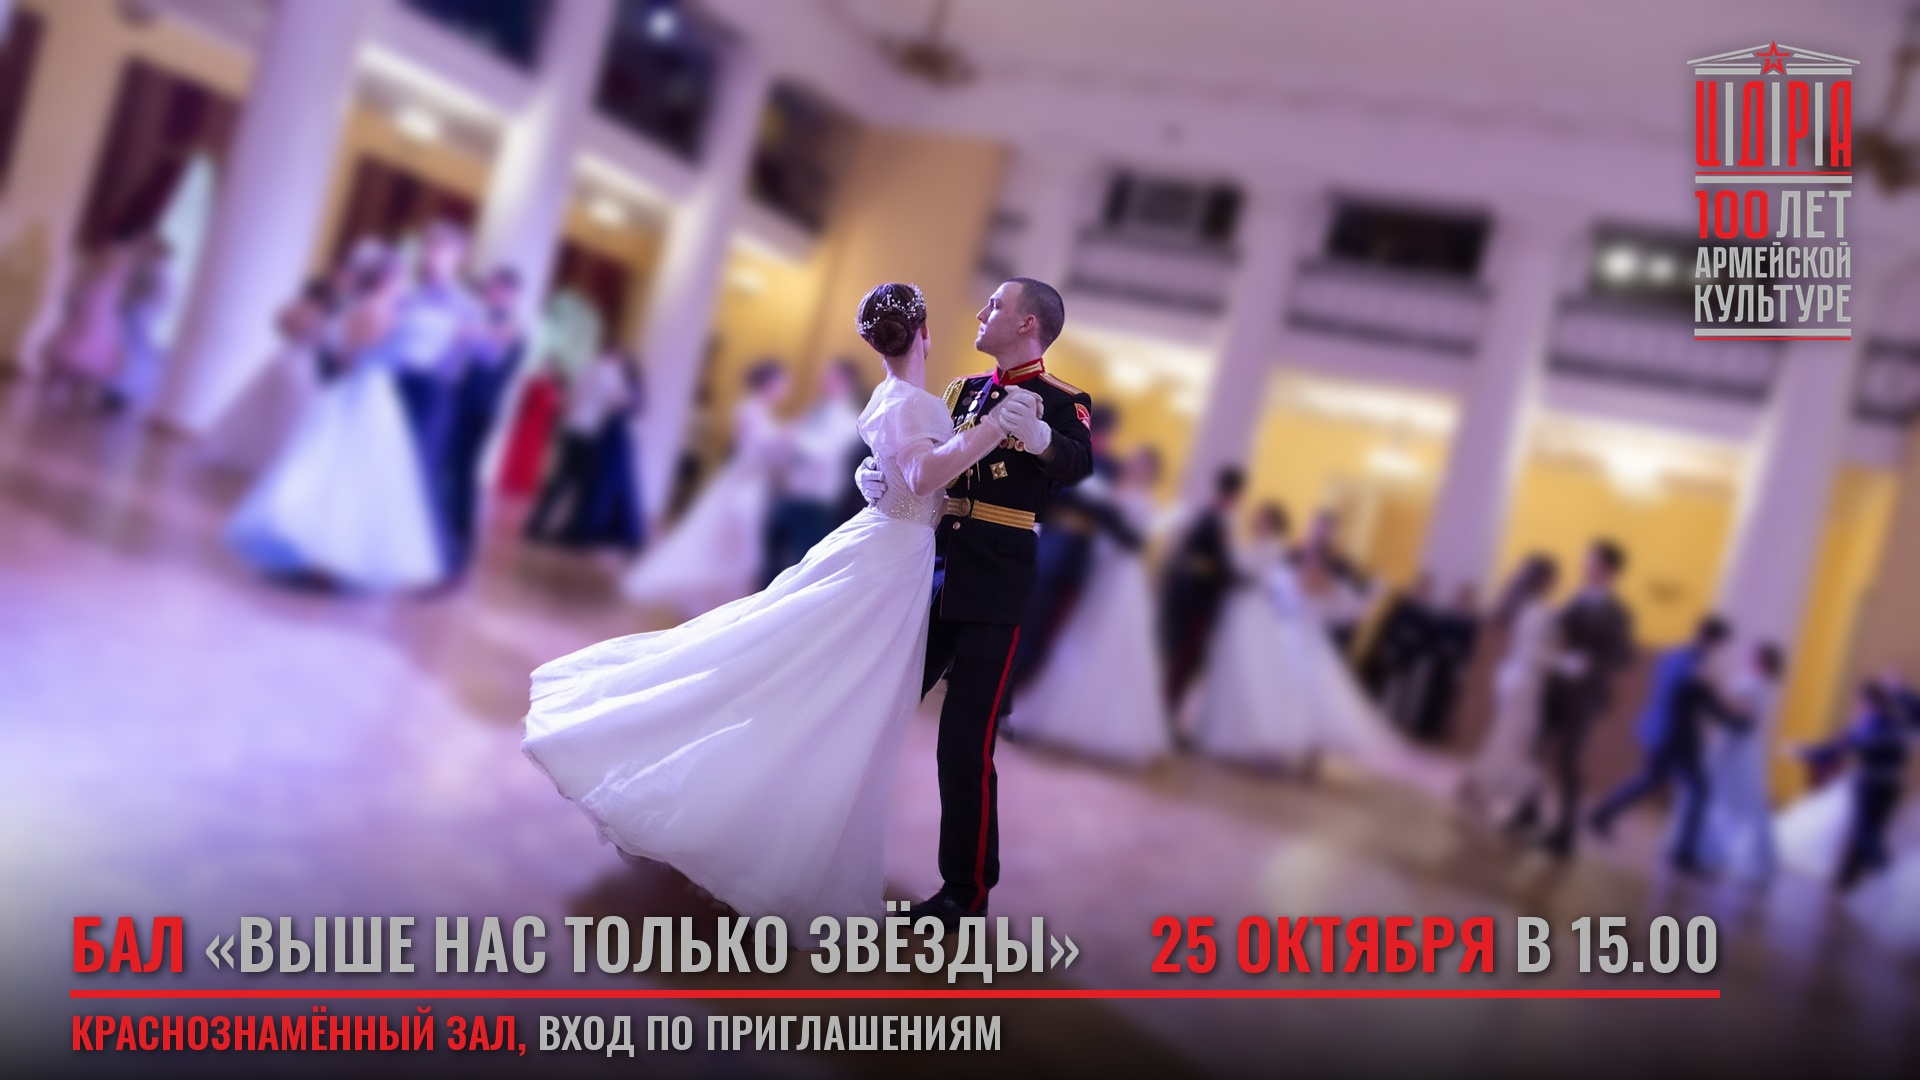
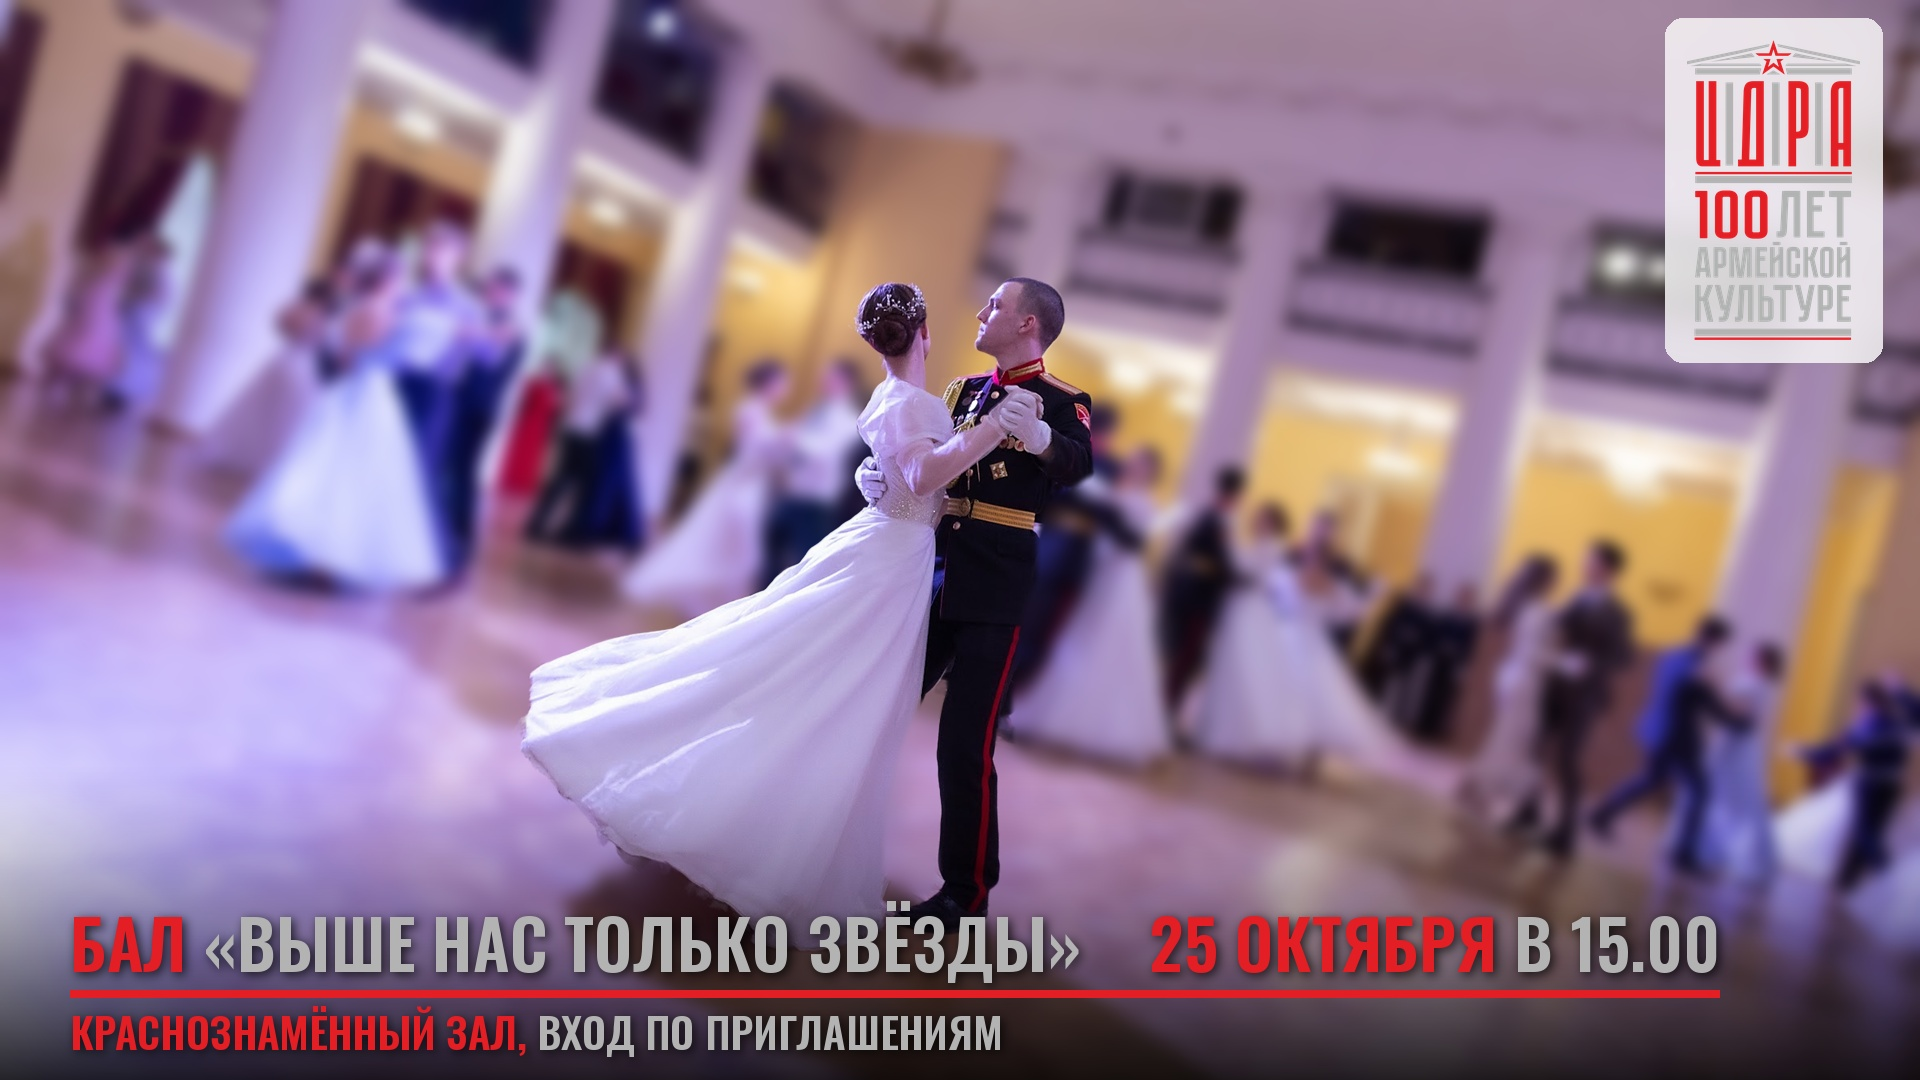
Афиша: светлая подложка под эмблемой; два варианта — с залом и без
Claude-Session: https://claude.ai/code/session_01T1cTPKS4tv71B7wCkjdvMn

Changed region(s): [[0.8438, 0.0, 1.0, 0.3361]]

diff --git a/afisha/make_poster.py b/afisha/make_poster.py
@@ -141,17 +141,23 @@ def emblem(img):
     h = 300
     em = em.resize((round(em.width * h / em.height), h), Image.LANCZOS)
     x, y = W - em.width - 60, 40
-    # мягкая тень, чтобы серый не терялся на светлом потолке
-    glow = Image.new("RGBA", img.size, (0, 0, 0, 0))
-    a = em.split()[3].point(lambda v: v * 0.55)
-    glow.paste((0, 0, 0, 255), (x, y), a)
-    glow = glow.filter(ImageFilter.GaussianBlur(10))
-    out = Image.alpha_composite(img.convert("RGBA"), glow)
+    # светлая полупрозрачная подложка под эмблемой
+    # (матовое стекло: фон под ней ещё размыт; эмблема рисовалась под белый фон,
+    # поэтому подложка почти белая — иначе серые буквы теряются)
+    pad = 22
+    box = [x - pad, y - pad, x + em.width + pad, y + h + pad]
+    shape = Image.new("L", img.size, 0)
+    ImageDraw.Draw(shape).rounded_rectangle(box, radius=18, fill=255)
+    out = img.convert("RGBA")
+    out = Image.composite(out.filter(ImageFilter.GaussianBlur(16)), out, shape)
+    white = Image.new("RGBA", img.size, (255, 255, 255, 0))
+    white.putalpha(shape.point(lambda v: v * 200 // 255))
+    out = Image.alpha_composite(out, white)
     out.alpha_composite(em, (x, y))
     return out
 
 
-def text(img):
+def text(img, venue=True):
     big = ImageFont.truetype(str(HERE / "Oswald-600.ttf"), 68)
     small = ImageFont.truetype(str(HERE / "Oswald-600.ttf"), 42)
     lines = [
@@ -159,6 +165,8 @@ def text(img):
                     ("    25 ОКТЯБРЯ ", RED), ("В 15.00", GRAY)]),
         (small, 1050, [("КРАСНОЗНАМЁННЫЙ ЗАЛ, ", RED), ("ВХОД ПО ПРИГЛАШЕНИЯМ", GRAY)]),
     ]
+    if not venue:   # короткий вариант: одна строка внизу, как в первой версии
+        lines = [(ImageFont.truetype(str(HERE / "Oswald-600.ttf"), 72), 1020, lines[0][2])]
     x0 = 70
     layer = Image.new("RGBA", img.size, (0, 0, 0, 0))
     shadow = Image.new("RGBA", img.size, (0, 0, 0, 0))
@@ -175,12 +183,14 @@ def text(img):
     out = Image.alpha_composite(img, shadow)
     out = Image.alpha_composite(out, layer)
     # красная линия между строками, как на эмблеме
-    ImageDraw.Draw(out).rectangle([x0, 990, ends[0], 997], fill=RED)
+    bar = 990 if venue else 1042
+    ImageDraw.Draw(out).rectangle([x0, bar, ends[0], bar + 7], fill=RED)
     return out
 
 
-img = bottom_shade(photo_layer())
-img = text(emblem(img))
-img.convert("RGB").save(HERE / "poster.png")
-img.convert("RGB").save(HERE / "poster.jpg", quality=95)
-print("ok", img.size)
+base = emblem(bottom_shade(photo_layer()))
+for name, venue in [("poster", True), ("poster_short", False)]:
+    img = text(base, venue).convert("RGB")
+    img.save(HERE / f"{name}.png")
+    img.save(HERE / f"{name}.jpg", quality=95)
+print("ok", base.size)
